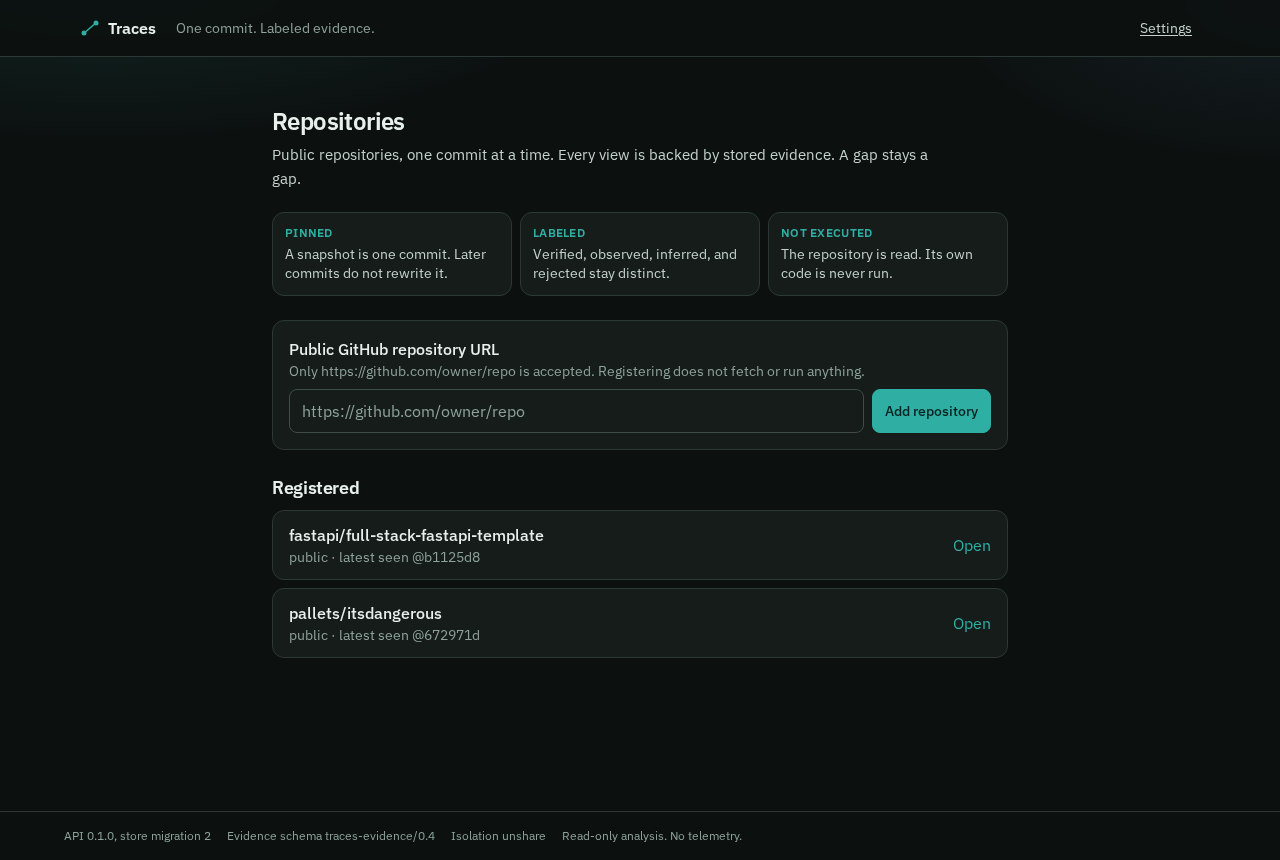
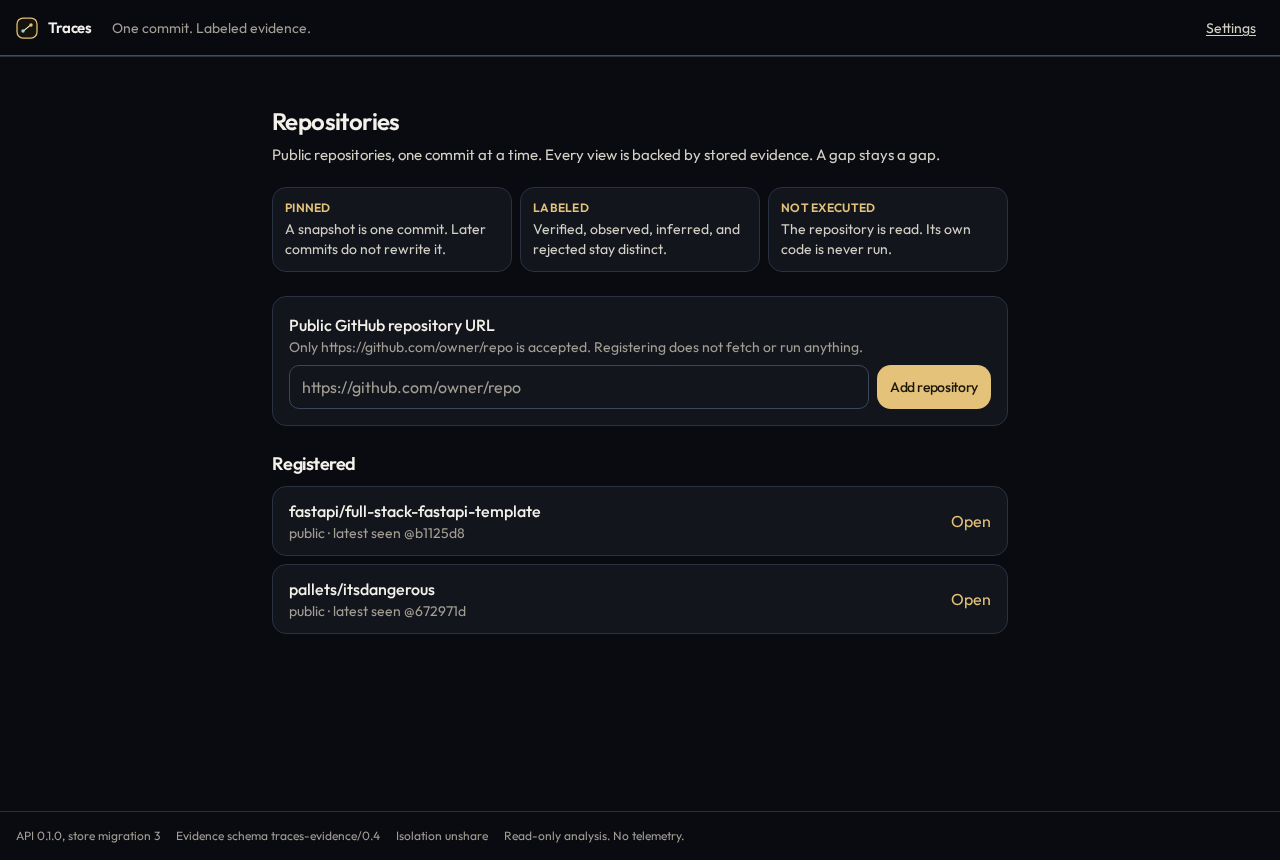
Give the interface one material: ink, brass, and quiet type.
Evidence colors stay as they are. Chrome, type, and the map nodes
no longer share the same teal.

diff --git a/web/src/features/graph/GraphCanvas.tsx b/web/src/features/graph/GraphCanvas.tsx
@@ -278,7 +278,7 @@ export function GraphCanvas({ elements, layout, selected, onSelect, onExpand, on
         aria-roledescription="graph"
         aria-label="Architecture graph. Use arrow keys to move between nodes, Enter to expand, Escape to clear. The list and cards views show the same data."
         onKeyDown={onKeyDown}
-        className="stage w-full max-w-full overflow-auto rounded-lg border border-line bg-[#070b0a]"
+        className="stage w-full max-w-full overflow-auto rounded-2xl border border-white/10"
         data-testid="graph-canvas"
       >
         <svg width={Math.ceil(frame.w * scale)} height={Math.ceil(frame.h * scale)} viewBox={`0 0 ${frame.w} ${frame.h}`} role="group" aria-label="Nodes and recorded relationships in this view">
@@ -296,11 +296,11 @@ export function GraphCanvas({ elements, layout, selected, onSelect, onExpand, on
             if (members.length === 0) return null;
             const top = Math.min(...members) - 56;
             const height = Math.max(...members) + 36 - top;
-            return <rect key={`band-${h.layer}-${h.x}`} x={h.x - 96} y={top} width={192} height={height} rx="12" fill="#10211e" />;
+            return <rect key={`band-${h.layer}-${h.x}`} x={h.x - 96} y={top} width={192} height={height} rx="16" fill="#141822" />;
           })}
           {headers.map((h) => (
-            <text key={`${h.layer}-${h.x}`} x={h.x} y={h.y - 40} textAnchor="middle" fill={layerColor(h.layer)} fontSize="12" fontFamily="IBM Plex Sans, sans-serif" fontWeight={600}>
-              {h.layer.charAt(0).toUpperCase() + h.layer.slice(1)}
+            <text key={`${h.layer}-${h.x}`} x={h.x} y={h.y - 40} textAnchor="middle" fill={layerColor(h.layer)} fontSize="11" fontFamily="Outfit, sans-serif" fontWeight={600} letterSpacing="1.6">
+              {(h.layer.charAt(0).toUpperCase() + h.layer.slice(1)).toUpperCase()}
             </text>
           ))}
           {visibleEdges.map((e) => {
@@ -318,14 +318,14 @@ export function GraphCanvas({ elements, layout, selected, onSelect, onExpand, on
                 <path
                   d={elbow(a, b, lanes.get(e.data.id) ?? 0, busY)}
                   fill="none"
-                  stroke={hot ? "#7eb6ff" : color}
+                  stroke={hot ? "#e4c27a" : color}
                   strokeWidth={hot ? 2.75 : Math.min(2.2, 0.9 + (e.data.weight ?? 1.5) * 0.35)}
                   strokeDasharray={dash}
                   markerEnd={`url(#${marker}-arrow)`}
                 />
                 <path d={elbow(a, b, lanes.get(e.data.id) ?? 0, busY)} fill="none" stroke="transparent" strokeWidth={14} className="cursor-pointer" onClick={() => (e.data.id.startsWith("rollup::") ? onSelect(e.data.source ?? null) : onEdge(e.data.id))} />
                 {showLabels || hot ? (
-                  <text x={midX} y={midY - 6} textAnchor="middle" fill="#e7f2ef" fontSize="11" fontFamily="IBM Plex Sans, sans-serif">
+                  <text x={midX} y={midY - 6} textAnchor="middle" fill="#f4f1ea" fontSize="11" fontFamily="Outfit, sans-serif">
                     {clip(e.data.label, 28)}
                   </text>
                 ) : null}
@@ -339,24 +339,24 @@ export function GraphCanvas({ elements, layout, selected, onSelect, onExpand, on
             const [l1, l2] = nodeLines(n.data);
             const on = selected === n.data.id;
             const dim = !!linked && !linked.has(n.data.id);
-            const stroke = on ? "#7eb6ff" : layerColor(n.data.layer);
+            const stroke = on ? "#e4c27a" : "rgba(244,241,234,0.14)";
             return (
               <g
                 key={n.data.id}
                 data-node-id={n.data.id}
                 transform={`translate(${p.x - box.w / 2} ${p.y - box.h / 2})`}
-                opacity={dim ? 0.38 : 1}
+                opacity={dim ? 0.34 : 1}
                 className="cursor-pointer"
                 onClick={() => onSelect(n.data.id)}
                 onDoubleClick={() => onExpand(n.data.id)}
               >
-                <rect width={box.w} height={box.h} rx="8" fill="#1b3330" stroke={stroke} strokeWidth={on ? 3 : 2} />
-                <rect width="5" height={box.h} rx="2" fill={layerColor(n.data.layer)} />
-                <text x={box.w / 2} y={l2 ? box.h / 2 - 6 : box.h / 2 + 4} textAnchor="middle" fill="#f4faf7" fontSize="12" fontFamily="IBM Plex Sans, sans-serif" fontWeight={600}>
+                <rect width={box.w} height={box.h} rx="11" fill="#161b26" stroke={stroke} strokeWidth={on ? 1.75 : 1} />
+                <rect x="0.5" y="8" width="3" height={box.h - 16} rx="1.5" fill={layerColor(n.data.layer)} />
+                <text x={box.w / 2} y={l2 ? box.h / 2 - 5 : box.h / 2 + 4} textAnchor="middle" fill="#f7f4ee" fontSize="13" fontFamily="Outfit, sans-serif" fontWeight={500}>
                   {l1}
                 </text>
                 {l2 ? (
-                  <text x={box.w / 2} y={box.h / 2 + 12} textAnchor="middle" fill="#c5d2cb" fontSize="11" fontFamily="IBM Plex Sans, sans-serif">
+                  <text x={box.w / 2} y={box.h / 2 + 12} textAnchor="middle" fill="#b7b2a8" fontSize="11" fontFamily="Outfit, sans-serif">
                     {l2}
                   </text>
                 ) : null}
@@ -392,20 +392,23 @@ export function RecordedLinks({
     return <p className="rounded-lg border border-dashed border-line-strong p-3 text-sm text-ink-2">No relationship on this page connects two components. That is not proof that nothing connects.</p>;
   }
   return (
-    <div className="rounded-lg border border-line bg-surface p-3" aria-label="Strongest recorded links">
-      <h3 className="text-sm font-semibold">Strongest links on this page</h3>
-      <ul className="mt-2 flex flex-col gap-1">
+    <div aria-label="Strongest recorded links">
+      <h3 className="text-[11px] font-semibold uppercase tracking-[0.16em] text-muted">Strongest links</h3>
+      <ul className="mt-2 flex flex-col">
         {ranked.map((e) => (
-          <li key={e.data.id}>
-            <button type="button" onClick={() => e.data.source && onPick(e.data.source)} className="tap w-full break-words rounded-md border border-line bg-canvas px-2 text-left text-sm">
-              <span className="font-medium">{nameOf(e.data.source)}</span>
-              <span className="text-muted"> {e.data.label} to </span>
-              <span className="font-medium">{nameOf(e.data.target)}</span>
+          <li key={e.data.id} className="border-t border-line first:border-t-0">
+            <button type="button" onClick={() => e.data.source && onPick(e.data.source)} className="tap flex w-full items-baseline justify-between gap-3 rounded-md px-1 text-left text-sm hover:bg-sunken">
+              <span className="min-w-0 break-words">
+                <span className="font-medium text-ink">{nameOf(e.data.source)}</span>
+                <span className="text-muted"> to </span>
+                <span className="text-ink-2">{nameOf(e.data.target)}</span>
+              </span>
+              <span className="shrink-0 font-mono text-[11px] text-muted">{e.data.label}</span>
             </button>
           </li>
         ))}
       </ul>
-      <p className="mt-2 text-xs text-ink-2">A count of recorded relationships, not a new claim. Select a component to read every link that touches it.</p>
+      <p className="mt-3 text-xs leading-relaxed text-muted">A count of recorded relationships, not a new claim. Select a component to read every link that touches it.</p>
     </div>
   );
 }

diff --git a/web/src/styles.css b/web/src/styles.css
@@ -2,23 +2,23 @@
 
 /* Design tokens. One source of truth for color, type and spacing. */
 @theme {
-  --font-sans: "IBM Plex Sans", ui-sans-serif, system-ui, sans-serif;
+  --font-sans: "Outfit", ui-sans-serif, system-ui, sans-serif;
   --font-mono: "IBM Plex Mono", ui-monospace, monospace;
 
-  --color-canvas: #0c1110;
-  --color-surface: #151c1a;
-  --color-sunken: #1d2623;
-  --color-line: #2c3834;
-  --color-line-strong: #3d4d48;
-  --color-ink: #e8f0ec;
-  --color-ink-2: #c5d2cb;
-  --color-muted: #8ea399;
-  --color-accent: #2fafa4;
-  --color-accent-ink: #06211f;
-  --color-accent-soft: #163430;
+  --color-canvas: #090b10;
+  --color-surface: #12151c;
+  --color-sunken: #1a1f2b;
+  --color-line: #2a3142;
+  --color-line-strong: #3c465c;
+  --color-ink: #f4f1ea;
+  --color-ink-2: #d4d0c6;
+  --color-muted: #a39e94;
+  --color-accent: #e4c27a;
+  --color-accent-ink: #1c160c;
+  --color-accent-soft: #2c2618;
   /* Evidence line highlight: dark enough that Shiki's dark-high-contrast tokens stay readable. */
-  --color-hit: #1a3330;
-  --color-focus: #7eb6ff;
+  --color-hit: #1a2428;
+  --color-focus: #9ec0ff;
 
   --color-verified: #8fd9cf;
   --color-verified-soft: #14332f;
@@ -31,10 +31,10 @@
   --color-unknown: #c4b4ea;
   --color-unknown-soft: #2a2340;
 
-  --radius-sm: 4px;
-  --radius-md: 8px;
-  --radius-lg: 12px;
-  --shadow-card: 0 1px 0 rgb(0 0 0 / 0.35);
+  --radius-sm: 6px;
+  --radius-md: 10px;
+  --radius-lg: 14px;
+  --shadow-card: 0 1px 0 rgb(255 255 255 / 0.04) inset, 0 16px 40px rgb(0 0 0 / 0.22);
 }
 
 @layer base {
@@ -45,10 +45,7 @@
     @apply bg-canvas text-ink font-sans antialiased;
     font-size: 16px;
     line-height: 1.5;
-    background-image:
-      radial-gradient(ellipse 70% 42% at 8% -8%, rgb(47 175 164 / 0.16), transparent 58%),
-      radial-gradient(ellipse 50% 36% at 100% 0%, rgb(126 182 255 / 0.08), transparent 52%);
-    background-attachment: fixed;
+    background-color: var(--color-canvas);
   }
   button:not(:disabled),
   [role="button"]:not(:disabled),
@@ -78,7 +75,7 @@
   h3 {
     @apply text-ink;
     text-wrap: balance;
-    letter-spacing: -0.02em;
+    letter-spacing: -0.03em;
   }
   input,
   textarea,
@@ -186,9 +183,9 @@
 }
 
 .flow-stop[aria-pressed="true"] {
-  border-color: var(--color-focus);
-  box-shadow: inset 0 0 0 1px var(--color-focus);
-  background: #163430;
+  border-color: var(--color-accent);
+  background: var(--color-accent-soft);
+  box-shadow: none;
 }
 
 .flow-list {
@@ -402,6 +399,9 @@
   max-height: min(68vh, 40rem);
   min-height: 12rem;
   overflow: auto;
+  background:
+    radial-gradient(ellipse 80% 60% at 50% 0%, rgb(228 194 122 / 0.05), transparent 55%),
+    #0c1018;
 }
 
 * {

diff --git a/web/src/app/AppShell.tsx b/web/src/app/AppShell.tsx
@@ -21,7 +21,7 @@ function ApiFooter() {
   else text = `API ${health.data.version}, store migration ${health.data.store_migration}`;
   return (
     <footer className="border-t border-line px-4 py-4 pb-24 text-xs text-muted md:pb-4" role="contentinfo">
-      <div className="mx-auto flex max-w-6xl flex-wrap gap-x-4 gap-y-1">
+      <div className="mx-auto flex max-w-[88rem] flex-wrap gap-x-4 gap-y-1">
         <span aria-live="polite">{text}</span>
         {meta.data ? (
           <>
@@ -39,15 +39,16 @@ export function AppShell() {
   return (
     <div className="flex min-h-dvh flex-col">
       <SkipLink />
-      <header className="sticky top-0 z-30 border-b border-line bg-canvas/90 backdrop-blur-md" role="banner">
-        <div className="mx-auto flex h-14 max-w-6xl items-center gap-3 px-4">
-          <Link to="/" className="tap -ml-2 inline-flex items-center gap-2 rounded-md px-2 font-semibold text-ink no-underline hover:no-underline">
-            <svg width="20" height="20" viewBox="0 0 20 20" aria-hidden="true" className="text-accent">
-              <circle cx="4" cy="15" r="2.5" fill="currentColor" />
-              <circle cx="16" cy="5" r="2.5" fill="currentColor" />
-              <path d="M6 13.5 L14 6.5" stroke="currentColor" strokeWidth="1.6" />
+      <header className="sticky top-0 z-30 border-b border-line bg-canvas/85 shadow-[inset_0_-1px_0_0_rgb(228_194_122_/_0.35)] backdrop-blur-md" role="banner">
+        <div className="mx-auto flex h-14 max-w-[88rem] items-center gap-3 px-4">
+          <Link to="/" className="tap -ml-2 inline-flex items-center gap-2.5 rounded-md px-2 font-semibold tracking-tight text-ink no-underline hover:no-underline">
+            <svg width="22" height="22" viewBox="0 0 22 22" aria-hidden="true">
+              <rect x="1" y="1" width="20" height="20" rx="6" fill="#16130c" stroke="#e4c27a" strokeWidth="1.25" />
+              <circle cx="7" cy="14" r="1.7" fill="#8fd9cf" />
+              <circle cx="15" cy="8" r="1.7" fill="#e4c27a" />
+              <path d="M8.4 13.1 L13.6 8.9" stroke="#f4f1ea" strokeWidth="1.2" strokeLinecap="round" />
             </svg>
-            <span>Traces</span>
+            <span className="text-[15px]">Traces</span>
           </Link>
           <span className="hidden text-sm text-muted sm:inline">One commit. Labeled evidence.</span>
           <nav aria-label="Global" className="ml-auto">

diff --git a/web/src/features/graph/GraphPage.tsx b/web/src/features/graph/GraphPage.tsx
@@ -495,11 +495,11 @@ export default function GraphPage() {
                               type="button"
                               aria-pressed={selected === n.data.id}
                               onClick={() => choose(selected === n.data.id ? null : n.data.id)}
-                              className="min-h-11 w-full rounded-lg border-2 bg-[#1b3330] px-3 py-2 text-left text-[#f4faf7]"
-                              style={{ borderColor: selected === n.data.id ? "#7eb6ff" : layerColor(n.data.layer) }}
+                              className="min-h-11 w-full rounded-xl border bg-surface px-3 py-2 text-left text-ink"
+                              style={{ borderColor: selected === n.data.id ? "#e4c27a" : layerColor(n.data.layer) }}
                             >
                               <span className="block text-sm font-semibold">{n.data.label}</span>
-                              <span className="mt-1 block text-xs text-[#c5d2cb]">
+                              <span className="mt-1 block text-xs text-muted">
                                 {links.length
                                   ? links
                                       .slice(0, 3)

diff --git a/web/src/app/SnapshotLayout.tsx b/web/src/app/SnapshotLayout.tsx
@@ -99,7 +99,7 @@ export function SnapshotLayout() {
   const snap = useSnapshot(repoId, sha);
   const repoName = repoId.split("__").slice(1).join("/") || repoId;
   return (
-    <div className="mx-auto flex max-w-[90rem] flex-col px-3 py-3 md:px-4">
+    <div className="mx-auto flex max-w-[88rem] flex-col px-4 py-4 md:px-6">
       <div className="mb-2 flex flex-wrap items-center gap-2 text-sm">
         <Link to={`/r/${encodeURIComponent(repoId)}`} className="font-medium">
           {repoName}
@@ -118,7 +118,7 @@ export function SnapshotLayout() {
         ))}
       </nav>
       <main id="main" tabIndex={-1} className="min-w-0 focus:outline-none">
-        <p className="mb-1 rounded-md border border-line bg-sunken px-3 py-1.5 text-xs text-ink-2" data-testid="static-disclaimer">
+        <p className="mb-3 border-l-2 border-accent/70 pl-3 text-xs leading-relaxed text-ink-2" data-testid="static-disclaimer">
           {STATIC_DISCLAIMER}
         </p>
         <p className="mb-2 text-xs text-muted">Rejected claims stay hidden until you open Review.</p>

diff --git a/web/src/features/views/SystemMap.tsx b/web/src/features/views/SystemMap.tsx
@@ -86,11 +86,11 @@ export function SystemMap() {
                       type="button"
                       aria-pressed={selected === n.data.id}
                       onClick={() => setSelected(selected === n.data.id ? null : n.data.id)}
-                      className="min-h-11 w-full rounded-lg border-2 bg-[#1b3330] px-3 py-2 text-left text-[#f4faf7]"
-                      style={{ borderColor: selected === n.data.id ? "#7eb6ff" : layerColor(n.data.layer) }}
+                      className="min-h-11 w-full rounded-xl border bg-surface px-3 py-2 text-left text-ink"
+                      style={{ borderColor: selected === n.data.id ? "#e4c27a" : layerColor(n.data.layer) }}
                     >
                       <span className="block text-sm font-semibold">{n.data.label}</span>
-                      <span className="mt-1 block text-xs text-[#c5d2cb]">
+                      <span className="mt-1 block text-xs text-muted">
                         {links.length
                           ? links
                               .slice(0, 3)

diff --git a/web/src/ui/States.tsx b/web/src/ui/States.tsx
@@ -76,10 +76,10 @@ export function Button({
 }: ButtonHTMLAttributes<HTMLButtonElement> & { variant?: "primary" | "secondary" }) {
   const v =
     variant === "primary"
-      ? "bg-accent text-accent-ink border-accent hover:bg-accent/90 disabled:border-line disabled:bg-line disabled:text-muted"
-      : "bg-surface text-ink border-line-strong hover:bg-sunken";
+      ? "bg-accent text-accent-ink border-transparent hover:brightness-105 disabled:border-line disabled:bg-line disabled:text-muted"
+      : "bg-transparent text-ink border-line-strong hover:bg-sunken";
   return (
-    <button className={`tap inline-flex items-center justify-center rounded-md border px-3 text-sm font-medium disabled:cursor-not-allowed ${v} ${className}`} {...rest}>
+    <button className={`tap inline-flex items-center justify-center rounded-lg border px-3 text-sm font-medium tracking-tight disabled:cursor-not-allowed ${v} ${className}`} {...rest}>
       {children}
     </button>
   );

diff --git a/web/index.html b/web/index.html
@@ -7,7 +7,7 @@
     <link rel="preconnect" href="https://fonts.googleapis.com" />
     <link rel="preconnect" href="https://fonts.gstatic.com" crossorigin />
     <link
-      href="https://fonts.googleapis.com/css2?family=IBM+Plex+Mono:wght@400;500&family=IBM+Plex+Sans:wght@400;500;600&display=swap"
+      href="https://fonts.googleapis.com/css2?family=IBM+Plex+Mono:wght@400;500&family=Outfit:wght@400;500;600&display=swap"
       rel="stylesheet"
     />
   </head>
